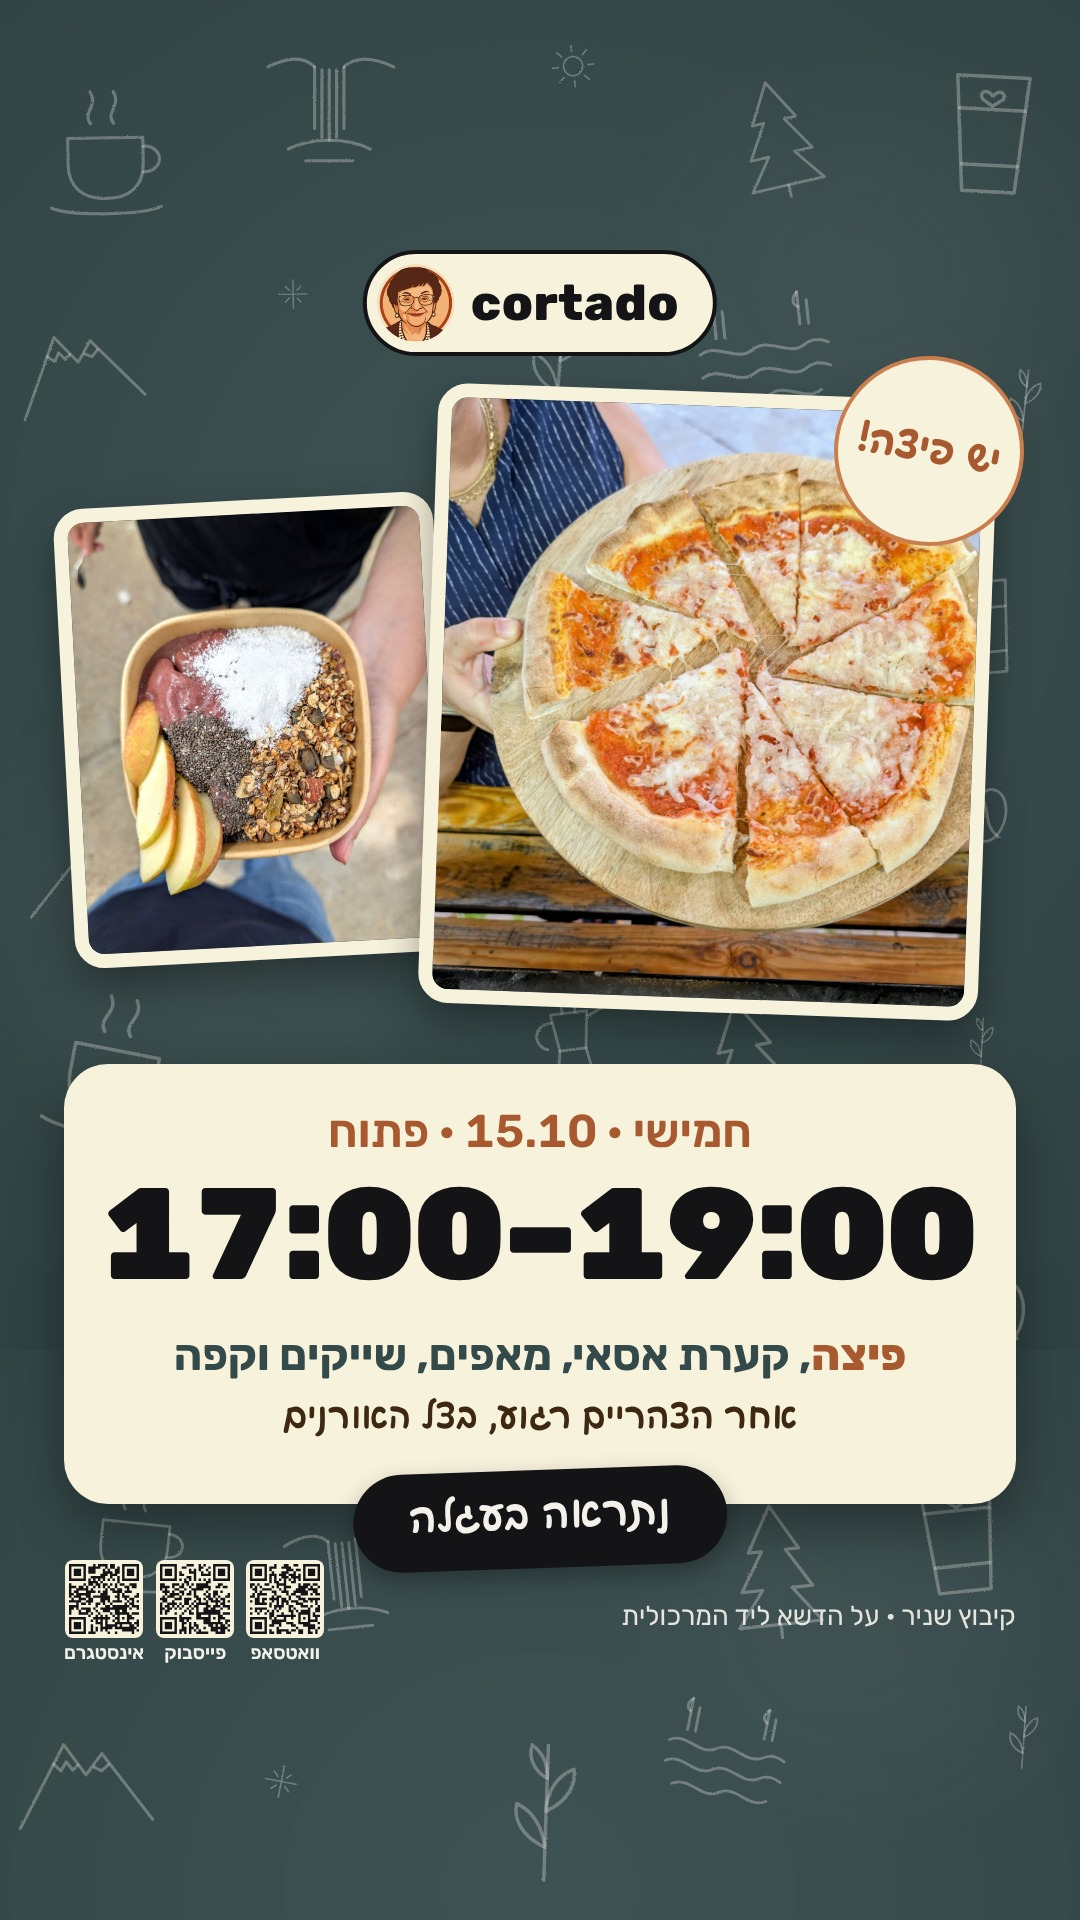
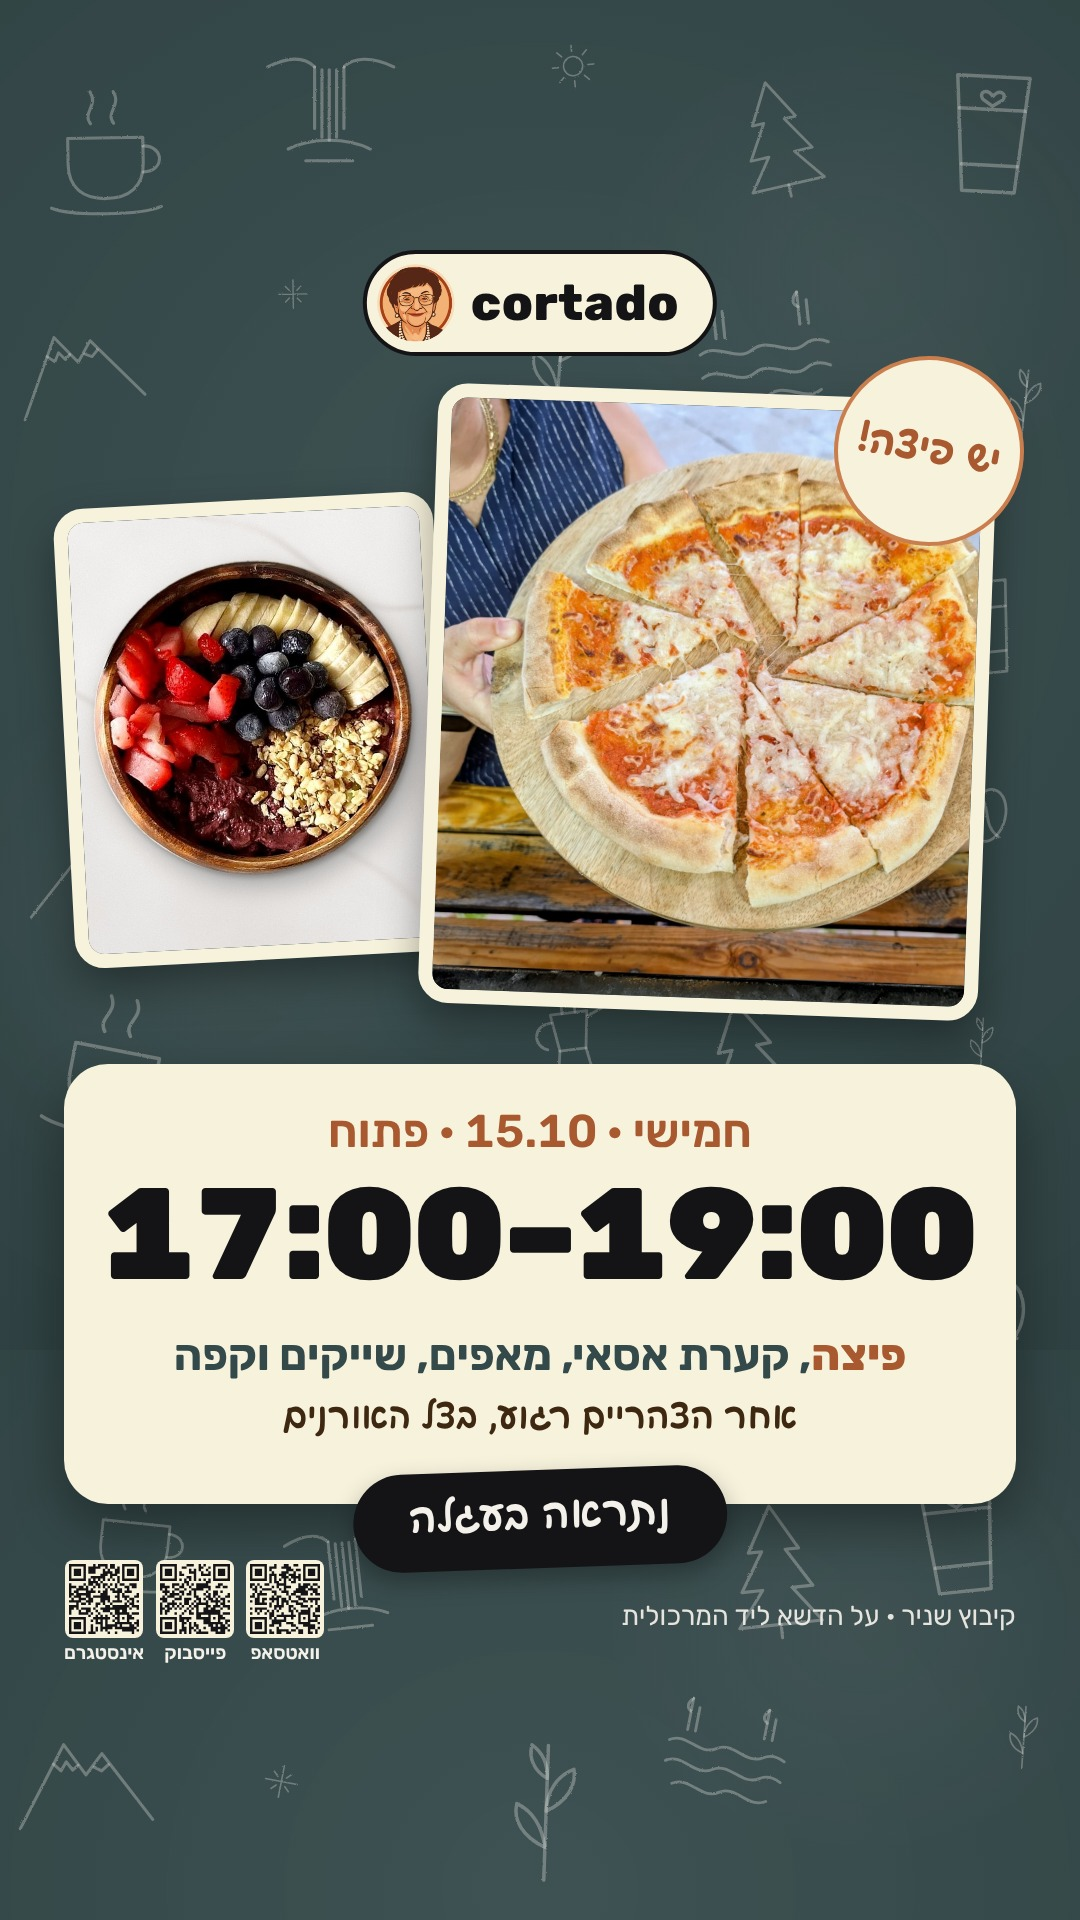
Acai: the owner's bowl photo is now the only acai image
Claude-Session: https://claude.ai/code/session_019QzmPdVBuLLW1qBPRqj2bP

Changed region(s): [[0.0611, 0.25, 0.3972, 0.5]]

diff --git a/toolkit/scripts/next_day_story.py b/toolkit/scripts/next_day_story.py
@@ -14,7 +14,7 @@ STATE = ROOT / "story-rotation.json"
 POOLS = {
     "coffee": ["cortado-lawn.jpg", "coffee-2.jpg", "coffee-3.jpg", "hero.jpg", "coffee-5.jpg", "coffee-4.jpg"],
     "pastry": ["pastry-tray.jpg", "pastry-2.jpg", "pastry-4.jpg", "pastry-3.jpg", "pastry-5.jpg"],
-    "acai": ["acai.jpg", "acai-2.jpg"],
+    "acai": ["acai.jpg"],  # the owner's one bowl photo (10.10.2026)
     "pizza": ["pizza-2.jpg", "pizza.jpg"],
 }
 CATS = ["coffee", "pastry", "acai"]
@@ -71,6 +71,6 @@ if __name__ == "__main__":
     st, d = {}, datetime.date(2026, 10, 12)
     seen = [story(d, ["17:00–19:00"], st)["second"] for _ in range(6)]
     assert seen[:3] == ["cortado-lawn.jpg", "pastry-tray.jpg", "acai.jpg"], seen
-    assert seen[3:] == ["coffee-2.jpg", "pastry-2.jpg", "acai-2.jpg"], seen
+    assert seen[3:] == ["coffee-2.jpg", "pastry-2.jpg", "acai.jpg"], seen
     assert all((ROOT / "assets/photos" / f).exists() for v in POOLS.values() for f in v)
     main()

diff --git a/toolkit/SKILL.md b/toolkit/SKILL.md
@@ -187,3 +187,6 @@ Copy `01-poster.html`, keep the frame (`base.css`, `hours.js`, 1080x1350,
 `data-join`), filled from `<template id="row-x">` with `{day}` `{short}`
 `{times}`; the week goes in an element with `data-week` containing `{week}`.
 Name it `NN-name.html`.
+
+## Acai bowl photo (owner, 10.10.2026)
+`assets/photos/acai.jpg` is the owner's bowl photo (wooden bowl on marble: berries, banana, blueberries, granola). From 10.10.2026 it is the only acai bowl image used in any design. Do not bring back the older hand-held bowl photos.
